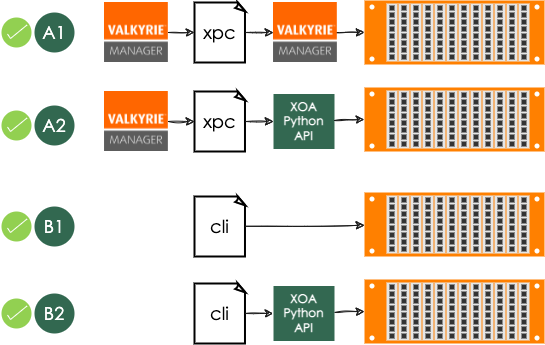
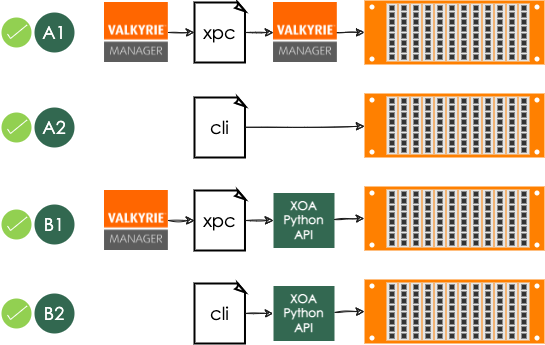
Update xoa cli synergy diagram

diff --git a/docs/source/introduction.rst b/docs/source/introduction.rst
@@ -43,14 +43,14 @@ In summary, the XOA Python API and XOA CLI work together to provide a comprehens
 
 .. figure:: /_static/xoa_cli_synergy.png
     :scale: 100 %
-    :align: center
+    :align: left
 
     Synergy Between XOA Python API and CLI
 
-    A1: Save port configurations from ValkyrieManager and conveniently load them at a later time.
+        A1: Save port configurations from ValkyrieManager and conveniently load them at a later time.
 
-    A2: Save port configurations from ValkyrieManager and conveniently load them using XOA Python API to facilitate the automation process.
+        A2: Use CLI commands to manage and control testers.
 
-    B1: Use CLI commands to manage and control testers.
+        B1: Save port configurations from ValkyrieManager and conveniently load them using XOA Python API to facilitate the automation process.
 
-    B2: Use CLI commands inside XOA Python API to manage and control testers.
+        B2: Use CLI commands inside XOA Python API to manage and control testers.
